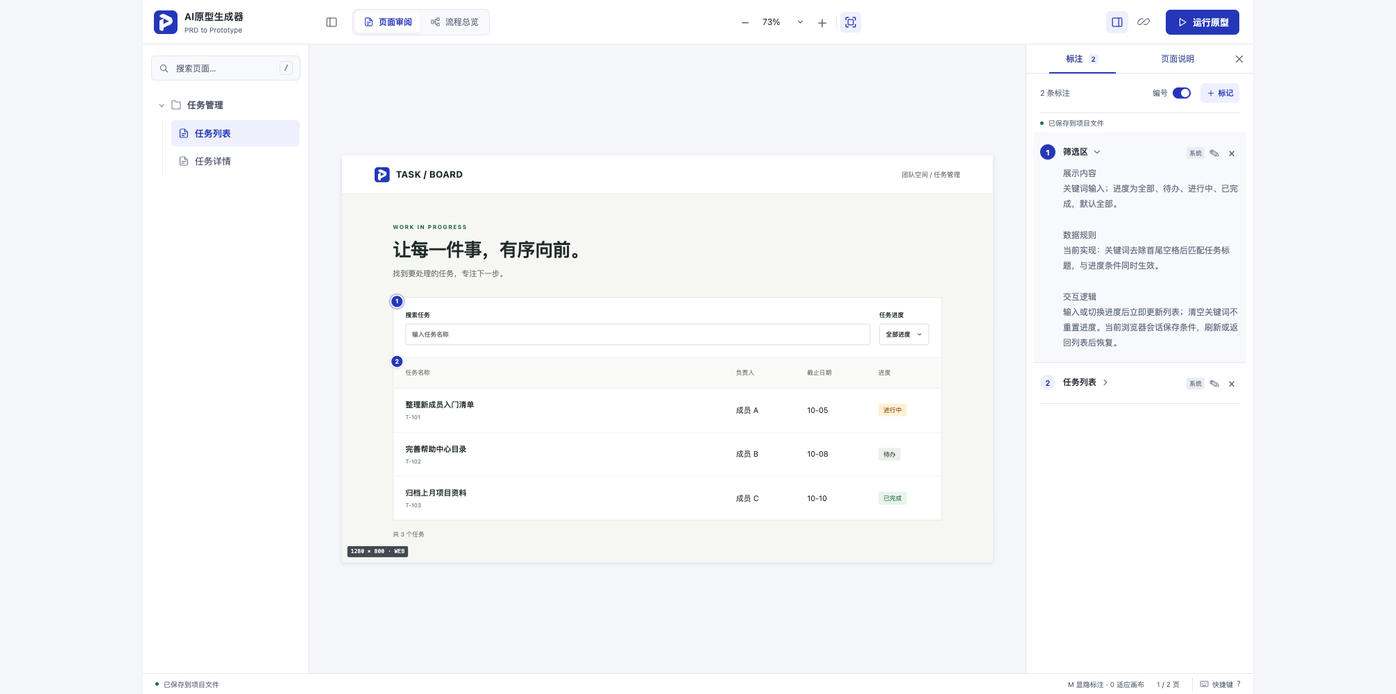
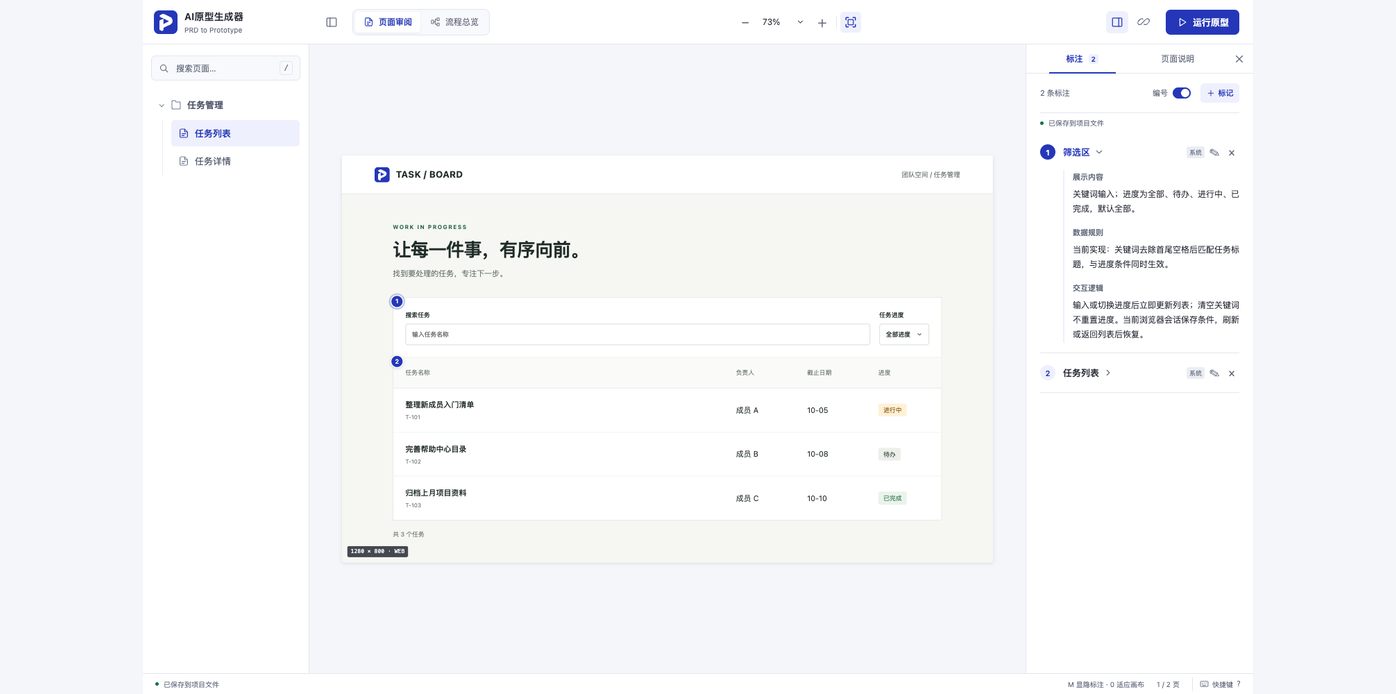
Stabilize inspector dividers and improve list hierarchy

Changed region(s): [[0.7393, 0.2118, 0.8933, 0.5749]]

diff --git a/assets/prototype-viewer/viewer.css b/assets/prototype-viewer/viewer.css
@@ -156,7 +156,7 @@ kbd { padding: 2px 5px; border: 1px solid var(--line); border-radius: 4px; backg
 .handoff-tabs button.is-active { color: var(--brand); font-weight: 650; }
 .handoff-tabs button.is-active::after { position: absolute; bottom: -1px; left: 15%; right: 15%; height: 2px; background: var(--brand); content: ""; }
 .tab-marker-count { display: inline-block; font-size: 10px; padding: 1px 4px; margin-left: 2px; border-radius: 3px; background: var(--brand-soft); }
-.handoff-panel { display: none; min-height: 0; padding: 0 20px 24px; overflow-y: auto; overscroll-behavior: contain; }
+.handoff-panel { display: none; min-height: 0; padding: 0 20px 24px; overflow-y: auto; overscroll-behavior: contain; scrollbar-gutter: stable; }
 .handoff-panel.is-active { display: block; flex: 1; }
 .handoff-section { padding: 22px 0 0; }
 .handoff-section h3 { margin: 0 0 12px; font-size: 11px; font-weight: 600; color: var(--muted); }
@@ -174,15 +174,15 @@ kbd { padding: 2px 5px; border: 1px solid var(--line); border-radius: 4px; backg
 .state-summary strong, .delivery-row strong, .acceptance-row > strong, .transition-row > strong { font-size: 12px; font-weight: 600; }
 .state-summary em, .delivery-row em { flex: none; font-size: 10px; padding: 2px 6px; border-radius: 4px; color: var(--green); background: #edf7f1; font-style: normal; }
 .state-summary.is-inapplicable em { color: var(--muted); background: var(--panel-2); }
-.state-summary p, .delivery-row p, .transition-row p { margin-top: 7px; color: var(--muted); }
+.state-summary p, .delivery-row p, .transition-row p { margin: 6px 0 0; color: var(--muted); font-size: 12px; line-height: 1.75; overflow-wrap: anywhere; }
 .delivery-row small { display: block; margin-top: 8px; font-size: 11px; color: var(--muted); line-height: 1.8; }
 .delivery-row em.status-open { color: #8a5c0f; background: #fcf3df; }
 .delivery-row em.status-rejected { color: #b13645; background: #fdefef; }
 .transition-path { display: flex; align-items: center; gap: 10px; margin-bottom: 12px; font-size: 11px; }
 .transition-path span { padding: 3px 6px; background: var(--brand-soft); color: var(--brand); border-radius: 4px; }
 .transition-path i { font-style: normal; color: var(--muted); }
-.acceptance-row dl { margin: 10px 0 0; }
-.acceptance-row dl > div { display: grid; grid-template-columns: 30px minmax(0, 1fr); gap: 9px; padding: 5px 0; font-size: 12px; line-height: 1.7; }
+.acceptance-row dl { margin: 8px 0 0; }
+.acceptance-row dl > div { display: grid; grid-template-columns: 30px minmax(0, 1fr); gap: 9px; padding: 4px 0; font-size: 12px; line-height: 1.75; }
 .acceptance-row dt { color: var(--muted); }
 .acceptance-row dd { margin: 0; }
 .handoff-docs { display: flex; flex-direction: column; gap: 10px; }
@@ -193,16 +193,20 @@ kbd { padding: 2px 5px; border: 1px solid var(--line); border-radius: 4px; backg
 .tab-question-count[hidden] { display: none; }
 .page-purpose { margin: 20px 0 16px; font-size: 13px; font-weight: 600; line-height: 1.85; overflow-wrap: anywhere; }
 .page-info-group { border-bottom: 1px solid var(--line); }
-.page-info-group > summary { display: flex; align-items: center; gap: 10px; min-height: 46px; padding: 10px 0; cursor: pointer; list-style: none; color: var(--text); font-size: 12px; font-weight: 600; }
+.page-info-group > summary { display: flex; align-items: center; gap: 10px; min-height: 56px; padding: 14px 0; cursor: pointer; list-style: none; color: var(--text); font-size: 13px; font-weight: 650; line-height: 22px; }
 .page-info-group > summary::-webkit-details-marker { display: none; }
 .page-info-group > summary > span:first-child { flex: 1; }
 .page-info-group > summary::after { width: 6px; height: 6px; margin-right: 3px; border-right: 1.5px solid var(--muted); border-bottom: 1.5px solid var(--muted); transform: rotate(45deg); content: ""; flex: none; }
 .page-info-group[open] > summary::after { transform: rotate(225deg); }
+.page-info-group[open] > summary { color: var(--brand); }
 .page-info-group > summary:hover { color: var(--brand); }
-.page-info-content { padding: 2px 0 16px; }
-.page-info-content .page-info-group { margin-top: 12px; border-top: 1px solid var(--line); border-bottom: 0; }
-.page-info-content .page-info-group > summary { color: var(--muted); font-size: 11px; }
-.page-info-content .page-info-content { padding-bottom: 0; }
+.page-info-content { padding: 0 0 16px; }
+.page-info-content .page-info-group { margin-top: 12px; padding-left: 12px; border: 0; border-left: 2px solid var(--line); }
+.page-info-content .page-info-group > summary { min-height: 40px; padding: 9px 0; color: var(--muted); font-size: 12px; font-weight: 500; }
+.page-info-content .page-info-group[open] > summary { color: var(--text); font-weight: 600; }
+.page-info-content .page-info-content { padding: 6px 0 4px; }
+.page-info-content .state-summary, .page-info-content .transition-row, .page-info-content .delivery-row, .page-info-content .acceptance-row { padding-top: 12px; padding-bottom: 12px; }
+.page-info-content .state-summary:first-child, .page-info-content .delivery-row:first-child, .page-info-content .acceptance-row:first-child { padding-top: 0; }
 .info-count { color: var(--muted); font-size: 10px; font-weight: 500; }
 .info-note { margin: 0 0 14px; color: var(--muted); font-size: 11px; line-height: 1.75; }
 .page-context { margin: 0; }
@@ -231,14 +235,15 @@ kbd { padding: 2px 5px; border: 1px solid var(--line); border-radius: 4px; backg
 .marker-toggle input:checked + i::after { transform: translateX(10px); }
 .marker-toggle input:focus-visible + i { outline: 2px solid var(--brand); outline-offset: 3px; }
 .annotation-list { margin-top: 0; }
-.annotation-item { display: grid; grid-template-columns: 23px minmax(0, 1fr); gap: 10px; padding: 17px 0; border-bottom: 1px solid var(--line); cursor: pointer; text-align: left; }
-.annotation-item.is-active { background: var(--panel-2); margin: 0 -10px; padding-left: 10px; padding-right: 10px; }
-.annotation-number { display: grid; place-items: center; width: 22px; height: 22px; border-radius: 50%; background: var(--brand-soft); color: var(--brand); font-size: 11px; font-weight: 600; }
+.annotation-item { display: grid; grid-template-columns: 23px minmax(0, 1fr); gap: 10px; padding: 14px 0; border-bottom: 1px solid var(--line); cursor: pointer; text-align: left; }
+.annotation-item.is-active { background: transparent; }
+.annotation-item.is-active .annotation-title-row strong { color: var(--brand); }
+.annotation-number { display: grid; place-items: center; width: 22px; height: 22px; margin-top: 3px; border-radius: 50%; background: var(--brand-soft); color: var(--brand); font-size: 11px; font-weight: 600; }
 .annotation-item.is-active .annotation-number { background: var(--brand); color: #fff; }
 .annotation-content { min-width: 0; }
-.annotation-title-row { display: flex; align-items: flex-start; gap: 8px; justify-content: space-between; }
-.annotation-title-row strong { min-width: 0; font-size: 12px; font-weight: 600; line-height: 1.8; overflow-wrap: anywhere; }
-.annotation-disclosure { flex: 1; min-width: 0; display: flex; align-items: flex-start; gap: 6px; border: 0; padding: 0; background: transparent; text-align: left; }
+.annotation-title-row { display: flex; align-items: center; gap: 8px; justify-content: space-between; min-height: 28px; }
+.annotation-title-row strong { min-width: 0; font-size: 13px; font-weight: 650; line-height: 22px; overflow-wrap: anywhere; }
+.annotation-disclosure { flex: 1; min-width: 0; min-height: 28px; display: flex; align-items: flex-start; gap: 6px; border: 0; padding: 3px 0; background: transparent; text-align: left; }
 .annotation-disclosure:hover { color: var(--brand); }
 .annotation-chevron { flex: none; width: 14px; height: 14px; margin-top: 4px; fill: none; stroke: var(--muted); stroke-width: 1.5; stroke-linecap: round; stroke-linejoin: round; transform: rotate(-90deg); transition: transform .15s ease; }
 .annotation-disclosure[aria-expanded="true"] .annotation-chevron { transform: rotate(0); }
@@ -249,7 +254,10 @@ kbd { padding: 2px 5px; border: 1px solid var(--line); border-radius: 4px; backg
 .annotation-source { font-size: 9px; border-radius: 3px; padding: 2px 4px; color: var(--muted); background: #ebedf3; font-style: normal; white-space: nowrap; }
 .annotation-source.is-manual { color: #675019; background: #faf0d9; }
 .annotation-source.is-modified { color: var(--brand); background: var(--brand-soft); }
-.annotation-description { display: block; margin-top: 7px; color: var(--muted); font-size: 12px; line-height: 1.85; white-space: pre-wrap; overflow-wrap: anywhere; }
+.annotation-description { display: flex; flex-direction: column; gap: 14px; margin-top: 12px; padding: 0 0 2px 12px; border-left: 2px solid var(--brand-soft); color: var(--text); font-size: 12px; line-height: 1.75; overflow-wrap: anywhere; }
+.annotation-section, .annotation-prose { display: block; }
+.annotation-section-heading { display: block; margin-bottom: 4px; color: var(--muted); font-size: 11px; font-weight: 600; line-height: 20px; }
+.annotation-section-body, .annotation-prose { white-space: pre-wrap; }
 .annotation-editor { grid-template-columns: 22px minmax(0, 1fr); cursor: default; }
 .annotation-edit-form { min-width: 0; display: flex; flex-direction: column; gap: 12px; }
 .annotation-edit-form label { display: flex; flex-direction: column; gap: 7px; font-size: 11px; color: var(--muted); }
@@ -361,6 +369,7 @@ kbd { padding: 2px 5px; border: 1px solid var(--line); border-radius: 4px; backg
   .preview-actions > button:not(.icon-button) { font-size: 11px; padding: 0 7px; }
   .is-mobile-preview .preview-viewport { padding: 12px 0; }
   .annotation-item-actions button { width: 30px; height: 32px; }
+  .handoff-panel > .page-info-group > summary { min-height: 60px; }
   .handoff-tabs button { height: 44px; }
   .nav-item { min-height: 42px; }
   .annotation-add-button { height: 34px; }

diff --git a/examples/task-board/prototype/viewer.css b/examples/task-board/prototype/viewer.css
@@ -156,7 +156,7 @@ kbd { padding: 2px 5px; border: 1px solid var(--line); border-radius: 4px; backg
 .handoff-tabs button.is-active { color: var(--brand); font-weight: 650; }
 .handoff-tabs button.is-active::after { position: absolute; bottom: -1px; left: 15%; right: 15%; height: 2px; background: var(--brand); content: ""; }
 .tab-marker-count { display: inline-block; font-size: 10px; padding: 1px 4px; margin-left: 2px; border-radius: 3px; background: var(--brand-soft); }
-.handoff-panel { display: none; min-height: 0; padding: 0 20px 24px; overflow-y: auto; overscroll-behavior: contain; }
+.handoff-panel { display: none; min-height: 0; padding: 0 20px 24px; overflow-y: auto; overscroll-behavior: contain; scrollbar-gutter: stable; }
 .handoff-panel.is-active { display: block; flex: 1; }
 .handoff-section { padding: 22px 0 0; }
 .handoff-section h3 { margin: 0 0 12px; font-size: 11px; font-weight: 600; color: var(--muted); }
@@ -174,15 +174,15 @@ kbd { padding: 2px 5px; border: 1px solid var(--line); border-radius: 4px; backg
 .state-summary strong, .delivery-row strong, .acceptance-row > strong, .transition-row > strong { font-size: 12px; font-weight: 600; }
 .state-summary em, .delivery-row em { flex: none; font-size: 10px; padding: 2px 6px; border-radius: 4px; color: var(--green); background: #edf7f1; font-style: normal; }
 .state-summary.is-inapplicable em { color: var(--muted); background: var(--panel-2); }
-.state-summary p, .delivery-row p, .transition-row p { margin-top: 7px; color: var(--muted); }
+.state-summary p, .delivery-row p, .transition-row p { margin: 6px 0 0; color: var(--muted); font-size: 12px; line-height: 1.75; overflow-wrap: anywhere; }
 .delivery-row small { display: block; margin-top: 8px; font-size: 11px; color: var(--muted); line-height: 1.8; }
 .delivery-row em.status-open { color: #8a5c0f; background: #fcf3df; }
 .delivery-row em.status-rejected { color: #b13645; background: #fdefef; }
 .transition-path { display: flex; align-items: center; gap: 10px; margin-bottom: 12px; font-size: 11px; }
 .transition-path span { padding: 3px 6px; background: var(--brand-soft); color: var(--brand); border-radius: 4px; }
 .transition-path i { font-style: normal; color: var(--muted); }
-.acceptance-row dl { margin: 10px 0 0; }
-.acceptance-row dl > div { display: grid; grid-template-columns: 30px minmax(0, 1fr); gap: 9px; padding: 5px 0; font-size: 12px; line-height: 1.7; }
+.acceptance-row dl { margin: 8px 0 0; }
+.acceptance-row dl > div { display: grid; grid-template-columns: 30px minmax(0, 1fr); gap: 9px; padding: 4px 0; font-size: 12px; line-height: 1.75; }
 .acceptance-row dt { color: var(--muted); }
 .acceptance-row dd { margin: 0; }
 .handoff-docs { display: flex; flex-direction: column; gap: 10px; }
@@ -193,16 +193,20 @@ kbd { padding: 2px 5px; border: 1px solid var(--line); border-radius: 4px; backg
 .tab-question-count[hidden] { display: none; }
 .page-purpose { margin: 20px 0 16px; font-size: 13px; font-weight: 600; line-height: 1.85; overflow-wrap: anywhere; }
 .page-info-group { border-bottom: 1px solid var(--line); }
-.page-info-group > summary { display: flex; align-items: center; gap: 10px; min-height: 46px; padding: 10px 0; cursor: pointer; list-style: none; color: var(--text); font-size: 12px; font-weight: 600; }
+.page-info-group > summary { display: flex; align-items: center; gap: 10px; min-height: 56px; padding: 14px 0; cursor: pointer; list-style: none; color: var(--text); font-size: 13px; font-weight: 650; line-height: 22px; }
 .page-info-group > summary::-webkit-details-marker { display: none; }
 .page-info-group > summary > span:first-child { flex: 1; }
 .page-info-group > summary::after { width: 6px; height: 6px; margin-right: 3px; border-right: 1.5px solid var(--muted); border-bottom: 1.5px solid var(--muted); transform: rotate(45deg); content: ""; flex: none; }
 .page-info-group[open] > summary::after { transform: rotate(225deg); }
+.page-info-group[open] > summary { color: var(--brand); }
 .page-info-group > summary:hover { color: var(--brand); }
-.page-info-content { padding: 2px 0 16px; }
-.page-info-content .page-info-group { margin-top: 12px; border-top: 1px solid var(--line); border-bottom: 0; }
-.page-info-content .page-info-group > summary { color: var(--muted); font-size: 11px; }
-.page-info-content .page-info-content { padding-bottom: 0; }
+.page-info-content { padding: 0 0 16px; }
+.page-info-content .page-info-group { margin-top: 12px; padding-left: 12px; border: 0; border-left: 2px solid var(--line); }
+.page-info-content .page-info-group > summary { min-height: 40px; padding: 9px 0; color: var(--muted); font-size: 12px; font-weight: 500; }
+.page-info-content .page-info-group[open] > summary { color: var(--text); font-weight: 600; }
+.page-info-content .page-info-content { padding: 6px 0 4px; }
+.page-info-content .state-summary, .page-info-content .transition-row, .page-info-content .delivery-row, .page-info-content .acceptance-row { padding-top: 12px; padding-bottom: 12px; }
+.page-info-content .state-summary:first-child, .page-info-content .delivery-row:first-child, .page-info-content .acceptance-row:first-child { padding-top: 0; }
 .info-count { color: var(--muted); font-size: 10px; font-weight: 500; }
 .info-note { margin: 0 0 14px; color: var(--muted); font-size: 11px; line-height: 1.75; }
 .page-context { margin: 0; }
@@ -231,14 +235,15 @@ kbd { padding: 2px 5px; border: 1px solid var(--line); border-radius: 4px; backg
 .marker-toggle input:checked + i::after { transform: translateX(10px); }
 .marker-toggle input:focus-visible + i { outline: 2px solid var(--brand); outline-offset: 3px; }
 .annotation-list { margin-top: 0; }
-.annotation-item { display: grid; grid-template-columns: 23px minmax(0, 1fr); gap: 10px; padding: 17px 0; border-bottom: 1px solid var(--line); cursor: pointer; text-align: left; }
-.annotation-item.is-active { background: var(--panel-2); margin: 0 -10px; padding-left: 10px; padding-right: 10px; }
-.annotation-number { display: grid; place-items: center; width: 22px; height: 22px; border-radius: 50%; background: var(--brand-soft); color: var(--brand); font-size: 11px; font-weight: 600; }
+.annotation-item { display: grid; grid-template-columns: 23px minmax(0, 1fr); gap: 10px; padding: 14px 0; border-bottom: 1px solid var(--line); cursor: pointer; text-align: left; }
+.annotation-item.is-active { background: transparent; }
+.annotation-item.is-active .annotation-title-row strong { color: var(--brand); }
+.annotation-number { display: grid; place-items: center; width: 22px; height: 22px; margin-top: 3px; border-radius: 50%; background: var(--brand-soft); color: var(--brand); font-size: 11px; font-weight: 600; }
 .annotation-item.is-active .annotation-number { background: var(--brand); color: #fff; }
 .annotation-content { min-width: 0; }
-.annotation-title-row { display: flex; align-items: flex-start; gap: 8px; justify-content: space-between; }
-.annotation-title-row strong { min-width: 0; font-size: 12px; font-weight: 600; line-height: 1.8; overflow-wrap: anywhere; }
-.annotation-disclosure { flex: 1; min-width: 0; display: flex; align-items: flex-start; gap: 6px; border: 0; padding: 0; background: transparent; text-align: left; }
+.annotation-title-row { display: flex; align-items: center; gap: 8px; justify-content: space-between; min-height: 28px; }
+.annotation-title-row strong { min-width: 0; font-size: 13px; font-weight: 650; line-height: 22px; overflow-wrap: anywhere; }
+.annotation-disclosure { flex: 1; min-width: 0; min-height: 28px; display: flex; align-items: flex-start; gap: 6px; border: 0; padding: 3px 0; background: transparent; text-align: left; }
 .annotation-disclosure:hover { color: var(--brand); }
 .annotation-chevron { flex: none; width: 14px; height: 14px; margin-top: 4px; fill: none; stroke: var(--muted); stroke-width: 1.5; stroke-linecap: round; stroke-linejoin: round; transform: rotate(-90deg); transition: transform .15s ease; }
 .annotation-disclosure[aria-expanded="true"] .annotation-chevron { transform: rotate(0); }
@@ -249,7 +254,10 @@ kbd { padding: 2px 5px; border: 1px solid var(--line); border-radius: 4px; backg
 .annotation-source { font-size: 9px; border-radius: 3px; padding: 2px 4px; color: var(--muted); background: #ebedf3; font-style: normal; white-space: nowrap; }
 .annotation-source.is-manual { color: #675019; background: #faf0d9; }
 .annotation-source.is-modified { color: var(--brand); background: var(--brand-soft); }
-.annotation-description { display: block; margin-top: 7px; color: var(--muted); font-size: 12px; line-height: 1.85; white-space: pre-wrap; overflow-wrap: anywhere; }
+.annotation-description { display: flex; flex-direction: column; gap: 14px; margin-top: 12px; padding: 0 0 2px 12px; border-left: 2px solid var(--brand-soft); color: var(--text); font-size: 12px; line-height: 1.75; overflow-wrap: anywhere; }
+.annotation-section, .annotation-prose { display: block; }
+.annotation-section-heading { display: block; margin-bottom: 4px; color: var(--muted); font-size: 11px; font-weight: 600; line-height: 20px; }
+.annotation-section-body, .annotation-prose { white-space: pre-wrap; }
 .annotation-editor { grid-template-columns: 22px minmax(0, 1fr); cursor: default; }
 .annotation-edit-form { min-width: 0; display: flex; flex-direction: column; gap: 12px; }
 .annotation-edit-form label { display: flex; flex-direction: column; gap: 7px; font-size: 11px; color: var(--muted); }
@@ -361,6 +369,7 @@ kbd { padding: 2px 5px; border: 1px solid var(--line); border-radius: 4px; backg
   .preview-actions > button:not(.icon-button) { font-size: 11px; padding: 0 7px; }
   .is-mobile-preview .preview-viewport { padding: 12px 0; }
   .annotation-item-actions button { width: 30px; height: 32px; }
+  .handoff-panel > .page-info-group > summary { min-height: 60px; }
   .handoff-tabs button { height: 44px; }
   .nav-item { min-height: 42px; }
   .annotation-add-button { height: 34px; }

diff --git a/assets/prototype-viewer/viewer.js b/assets/prototype-viewer/viewer.js
@@ -978,6 +978,20 @@ function renderMarkerEditor(node, page, marker, number) {
   return item;
 }
 
+function renderAnnotationContent(content) {
+  // Presentation only: keep stored notes and free-form text unchanged.
+  const headings = new Set(["模块定义", "展示内容", "数据规则", "交互逻辑", "异常与状态", "布局规则", "合规规则", "关联文档"]);
+  return String(content).split(/\n[\t ]*\n/).map(part => {
+    const newline = part.indexOf("\n");
+    const heading = part.slice(0, newline).trim();
+    if (newline > 0 && headings.has(heading)) {
+      return '<span class="annotation-section"><span class="annotation-section-heading">' + escapeHtml(part.slice(0, newline)) +
+        '</span><span class="annotation-section-body">' + escapeHtml(part.slice(newline + 1)) + '</span></span>';
+    }
+    return '<span class="annotation-prose">' + escapeHtml(part) + '</span>';
+  }).join("");
+}
+
 function renderMarkerItem(node, page, marker, number) {
   const source = markerSource(marker);
   const item = document.createElement("div");
@@ -999,7 +1013,7 @@ function renderMarkerItem(node, page, marker, number) {
           <button type="button" data-marker-action="delete" title="删除标注" aria-label="删除标注">×</button>
         </span>
       </span>
-      <span id="${escapeHtml(descriptionId)}" class="annotation-description" hidden>${escapeHtml(marker.content)}</span>
+      <span id="${escapeHtml(descriptionId)}" class="annotation-description" hidden>${renderAnnotationContent(marker.content)}</span>
     </span>`;
   item.addEventListener("click", (event) => {
     const action = event.target.closest("[data-marker-action]")?.dataset.markerAction;

diff --git a/examples/task-board/prototype/viewer.js b/examples/task-board/prototype/viewer.js
@@ -978,6 +978,20 @@ function renderMarkerEditor(node, page, marker, number) {
   return item;
 }
 
+function renderAnnotationContent(content) {
+  // Presentation only: keep stored notes and free-form text unchanged.
+  const headings = new Set(["模块定义", "展示内容", "数据规则", "交互逻辑", "异常与状态", "布局规则", "合规规则", "关联文档"]);
+  return String(content).split(/\n[\t ]*\n/).map(part => {
+    const newline = part.indexOf("\n");
+    const heading = part.slice(0, newline).trim();
+    if (newline > 0 && headings.has(heading)) {
+      return '<span class="annotation-section"><span class="annotation-section-heading">' + escapeHtml(part.slice(0, newline)) +
+        '</span><span class="annotation-section-body">' + escapeHtml(part.slice(newline + 1)) + '</span></span>';
+    }
+    return '<span class="annotation-prose">' + escapeHtml(part) + '</span>';
+  }).join("");
+}
+
 function renderMarkerItem(node, page, marker, number) {
   const source = markerSource(marker);
   const item = document.createElement("div");
@@ -999,7 +1013,7 @@ function renderMarkerItem(node, page, marker, number) {
           <button type="button" data-marker-action="delete" title="删除标注" aria-label="删除标注">×</button>
         </span>
       </span>
-      <span id="${escapeHtml(descriptionId)}" class="annotation-description" hidden>${escapeHtml(marker.content)}</span>
+      <span id="${escapeHtml(descriptionId)}" class="annotation-description" hidden>${renderAnnotationContent(marker.content)}</span>
     </span>`;
   item.addEventListener("click", (event) => {
     const action = event.target.closest("[data-marker-action]")?.dataset.markerAction;

diff --git a/assets/prototype-viewer/index.html b/assets/prototype-viewer/index.html
@@ -6,7 +6,7 @@
   <meta name="theme-color" content="#2537b8"/>
   <title>AI原型生成器</title>
   <link rel="icon" type="image/svg+xml" href="assets/prototype-viewer/prototype-mark.svg"/>
-  <link rel="stylesheet" href="viewer.css?v=20261017-2"/>
+  <link rel="stylesheet" href="viewer.css?v=20261017-3"/>
   <link rel="stylesheet" href="select-controls.css?v=20261016-3"/>
 </head>
 <body>
@@ -59,6 +59,6 @@
       <div class="handoff-panel is-active" role="tabpanel" data-handoff-panel="annotations"><div class="annotation-head"><span class="annotation-count"></span><span class="annotation-controls"><label class="marker-toggle" title="显示或隐藏页面编号标记"><span>编号</span><input type="checkbox" checked aria-label="显示页面编号标记"/><i aria-hidden="true"></i></label><button type="button" class="annotation-add-button" title="在页面上添加标记" aria-label="在页面上添加标记" aria-pressed="false"><span aria-hidden="true">＋</span><b>标记</b></button></span></div><div class="annotation-storage-status" data-state="loading"><i aria-hidden="true"></i><span>读取保存状态</span></div><div class="annotation-list"></div></div><div class="handoff-panel" role="tabpanel" data-handoff-panel="page-info"></div>
     </aside></div>
   </article></template>
-  <script src="annotation-store.js?v=20261016-1"></script><script src="document-preview-core.js?v=20260819-1"></script><script src="viewer.js?v=20261017-2"></script>
+  <script src="annotation-store.js?v=20261016-1"></script><script src="document-preview-core.js?v=20260819-1"></script><script src="viewer.js?v=20261017-3"></script>
 </body>
 </html>

diff --git a/examples/task-board/prototype/index.html b/examples/task-board/prototype/index.html
@@ -6,7 +6,7 @@
   <meta name="theme-color" content="#2537b8"/>
   <title>AI原型生成器</title>
   <link rel="icon" type="image/svg+xml" href="assets/prototype-viewer/prototype-mark.svg"/>
-  <link rel="stylesheet" href="viewer.css?v=20261017-2"/>
+  <link rel="stylesheet" href="viewer.css?v=20261017-3"/>
   <link rel="stylesheet" href="select-controls.css?v=20261016-3"/>
 </head>
 <body>
@@ -59,6 +59,6 @@
       <div class="handoff-panel is-active" role="tabpanel" data-handoff-panel="annotations"><div class="annotation-head"><span class="annotation-count"></span><span class="annotation-controls"><label class="marker-toggle" title="显示或隐藏页面编号标记"><span>编号</span><input type="checkbox" checked aria-label="显示页面编号标记"/><i aria-hidden="true"></i></label><button type="button" class="annotation-add-button" title="在页面上添加标记" aria-label="在页面上添加标记" aria-pressed="false"><span aria-hidden="true">＋</span><b>标记</b></button></span></div><div class="annotation-storage-status" data-state="loading"><i aria-hidden="true"></i><span>读取保存状态</span></div><div class="annotation-list"></div></div><div class="handoff-panel" role="tabpanel" data-handoff-panel="page-info"></div>
     </aside></div>
   </article></template>
-  <script src="annotation-store.js?v=20261016-1"></script><script src="document-preview-core.js?v=20260819-1"></script><script src="viewer.js?v=20261017-2"></script>
+  <script src="annotation-store.js?v=20261016-1"></script><script src="document-preview-core.js?v=20260819-1"></script><script src="viewer.js?v=20261017-3"></script>
 </body>
 </html>

diff --git a/docs/VIEWER-REFRESH.md b/docs/VIEWER-REFRESH.md
@@ -18,6 +18,8 @@
 
 标注点击联动画布点位，同一条可反复展开/收起，支持全部收起和 Enter／空格键操作；画布编号始终打开对应说明。支持新增、编辑、删除、恢复系统说明和重定位，操作按钮不触发折叠。未保存的编辑切页时提醒；保存状态在底栏持续展示。无写入接口时显示“仅浏览器保存”，接口失败时保留本机缓存并明确提示。
 
+两个面板的同级分割线和标题行采用相同基准，展开条目不再通过负边距外扩。正文标准分段按标签与规则分层，嵌套记录以缩进和细竖线区分；长标题自然换行，开合不改变标题区域高度。阅读样式不会改写标注原文。
+
 ## 本地验证
 
 核心检查无需安装 npm 运行依赖：
@@ -38,7 +40,7 @@ npm run test:browser
 
 浏览器覆盖：画布适应与真实缩放、搜索与键盘操作、右侧状态说明、筛选自然空态、独立状态页保持自身画面、任务完成与返回筛选恢复、标注切页保护与文件持久化、新增/重定位/删除/恢复、保存失败后缓存恢复、关联 Markdown、标注点位联动、流程总览、导航消息来源校验、375–1440px 布局、移动端实际视口和纯静态部署缓存。
 
-查看器改版初次本地验收包含 19 项核心与独立包测试、18 组浏览器检查。2026-10-17 标注与说明面板升级后的本地验收为 34 项核心/标注/独立包检查、21 组浏览器检查，任务板产物校验为 0 错误、0 警告；公开包文本扫描通过。新增检查覆盖默认标注、两页签、折叠规则与验收清单、待确认计数及窄屏提醒、v2.2 可选背景与旧版严格校验。GitHub CI 只对应其触发提交，本地新增检查通过不代表远端已执行。
+查看器改版初次本地验收包含 19 项核心与独立包测试、18 组浏览器检查。2026-10-17 标注与说明面板升级后的本地验收为 34 项核心/标注/独立包检查、23 组浏览器检查，任务板产物校验为 0 错误、0 警告；公开包文本扫描通过。新增检查覆盖默认标注、两页签、折叠规则与验收清单、待确认计数及窄屏提醒、v2.2 可选背景与旧版严格校验、开合边线与行高稳定、长标题及备注原文安全显示。GitHub CI 只对应其触发提交，本地新增检查通过不代表远端已执行。
 
 模块标注默认使用 v2.2：不强制凑三段，按模块归属、有效正文与适用规则交付；读取成功时以 page-spec 为系统说明基线，镜像仅作降级。重跑保留未提供维度，明确删除才移除，并同步镜像、保护人工覆盖层。规则与用法见 [模块标注规则](../references/annotation-authoring-rules.md)。
 

diff --git a/DESIGN.md b/DESIGN.md
@@ -29,6 +29,8 @@
 
 使用本地系统无衬线字体，界面正文 13px，辅助文字 11–12px，主要标题 14–16px。常用控件高 32–36px，细描边，6–10px 圆角；窄屏的页签与页面列表增加点击高度。使用统一线性 SVG 图标和可见焦点。
 
+右侧两个面板使用相同的内容边距和稳定的滚动条占位，同级分割线不随展开收起改变宽度。主列表的单行标题区域为 56px，窄屏为 60px；长标题按内容增高，开合保持原高度。主标题 13px 加粗，嵌套说明使用缩进、40px 标题行和细竖线，标注正文为 12px，分段标签为 11px。自由备注保留原文，标准分段只改变阅读样式，不回写内容。
+
 ## 交互
 
 默认适应画布；手动缩放保留，说明面板不随缩放。通过左侧页面树切页，支持复制当前页面链接、键盘搜索、快捷键说明、标注联动和运行预览。不提供额外翻页或重置视图入口。上游规格和业务页面以项目文件为准。
